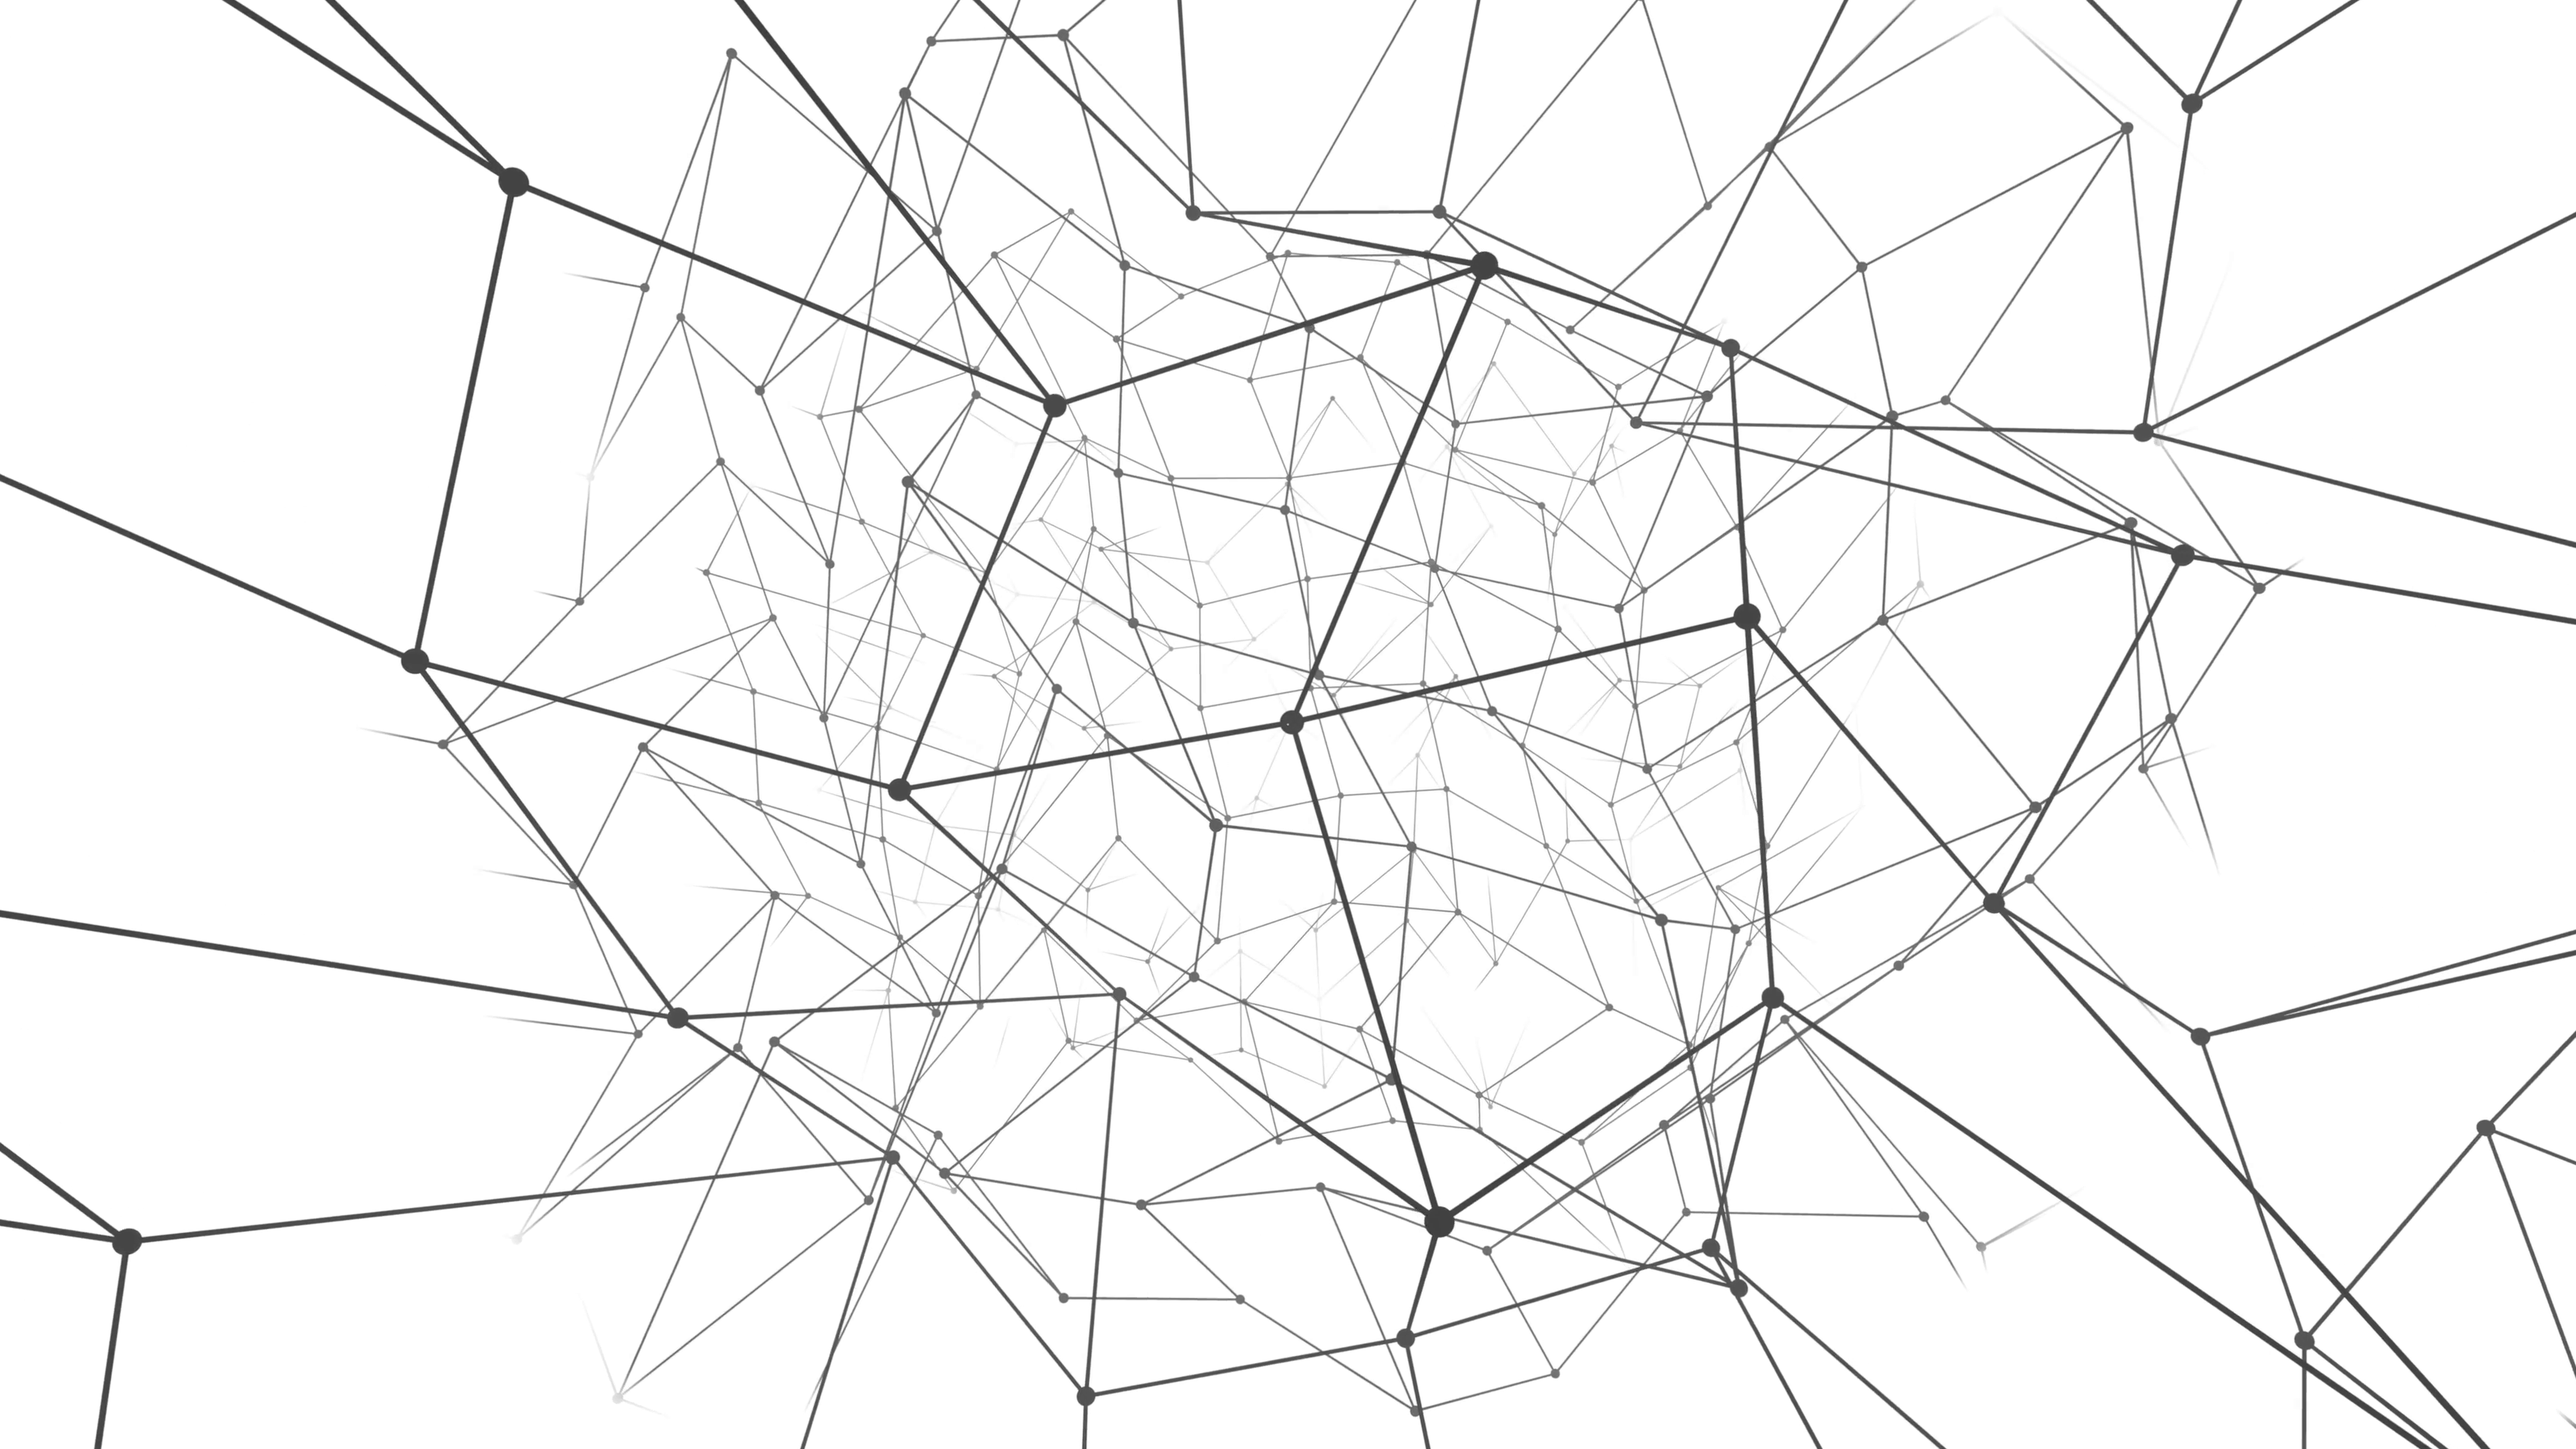
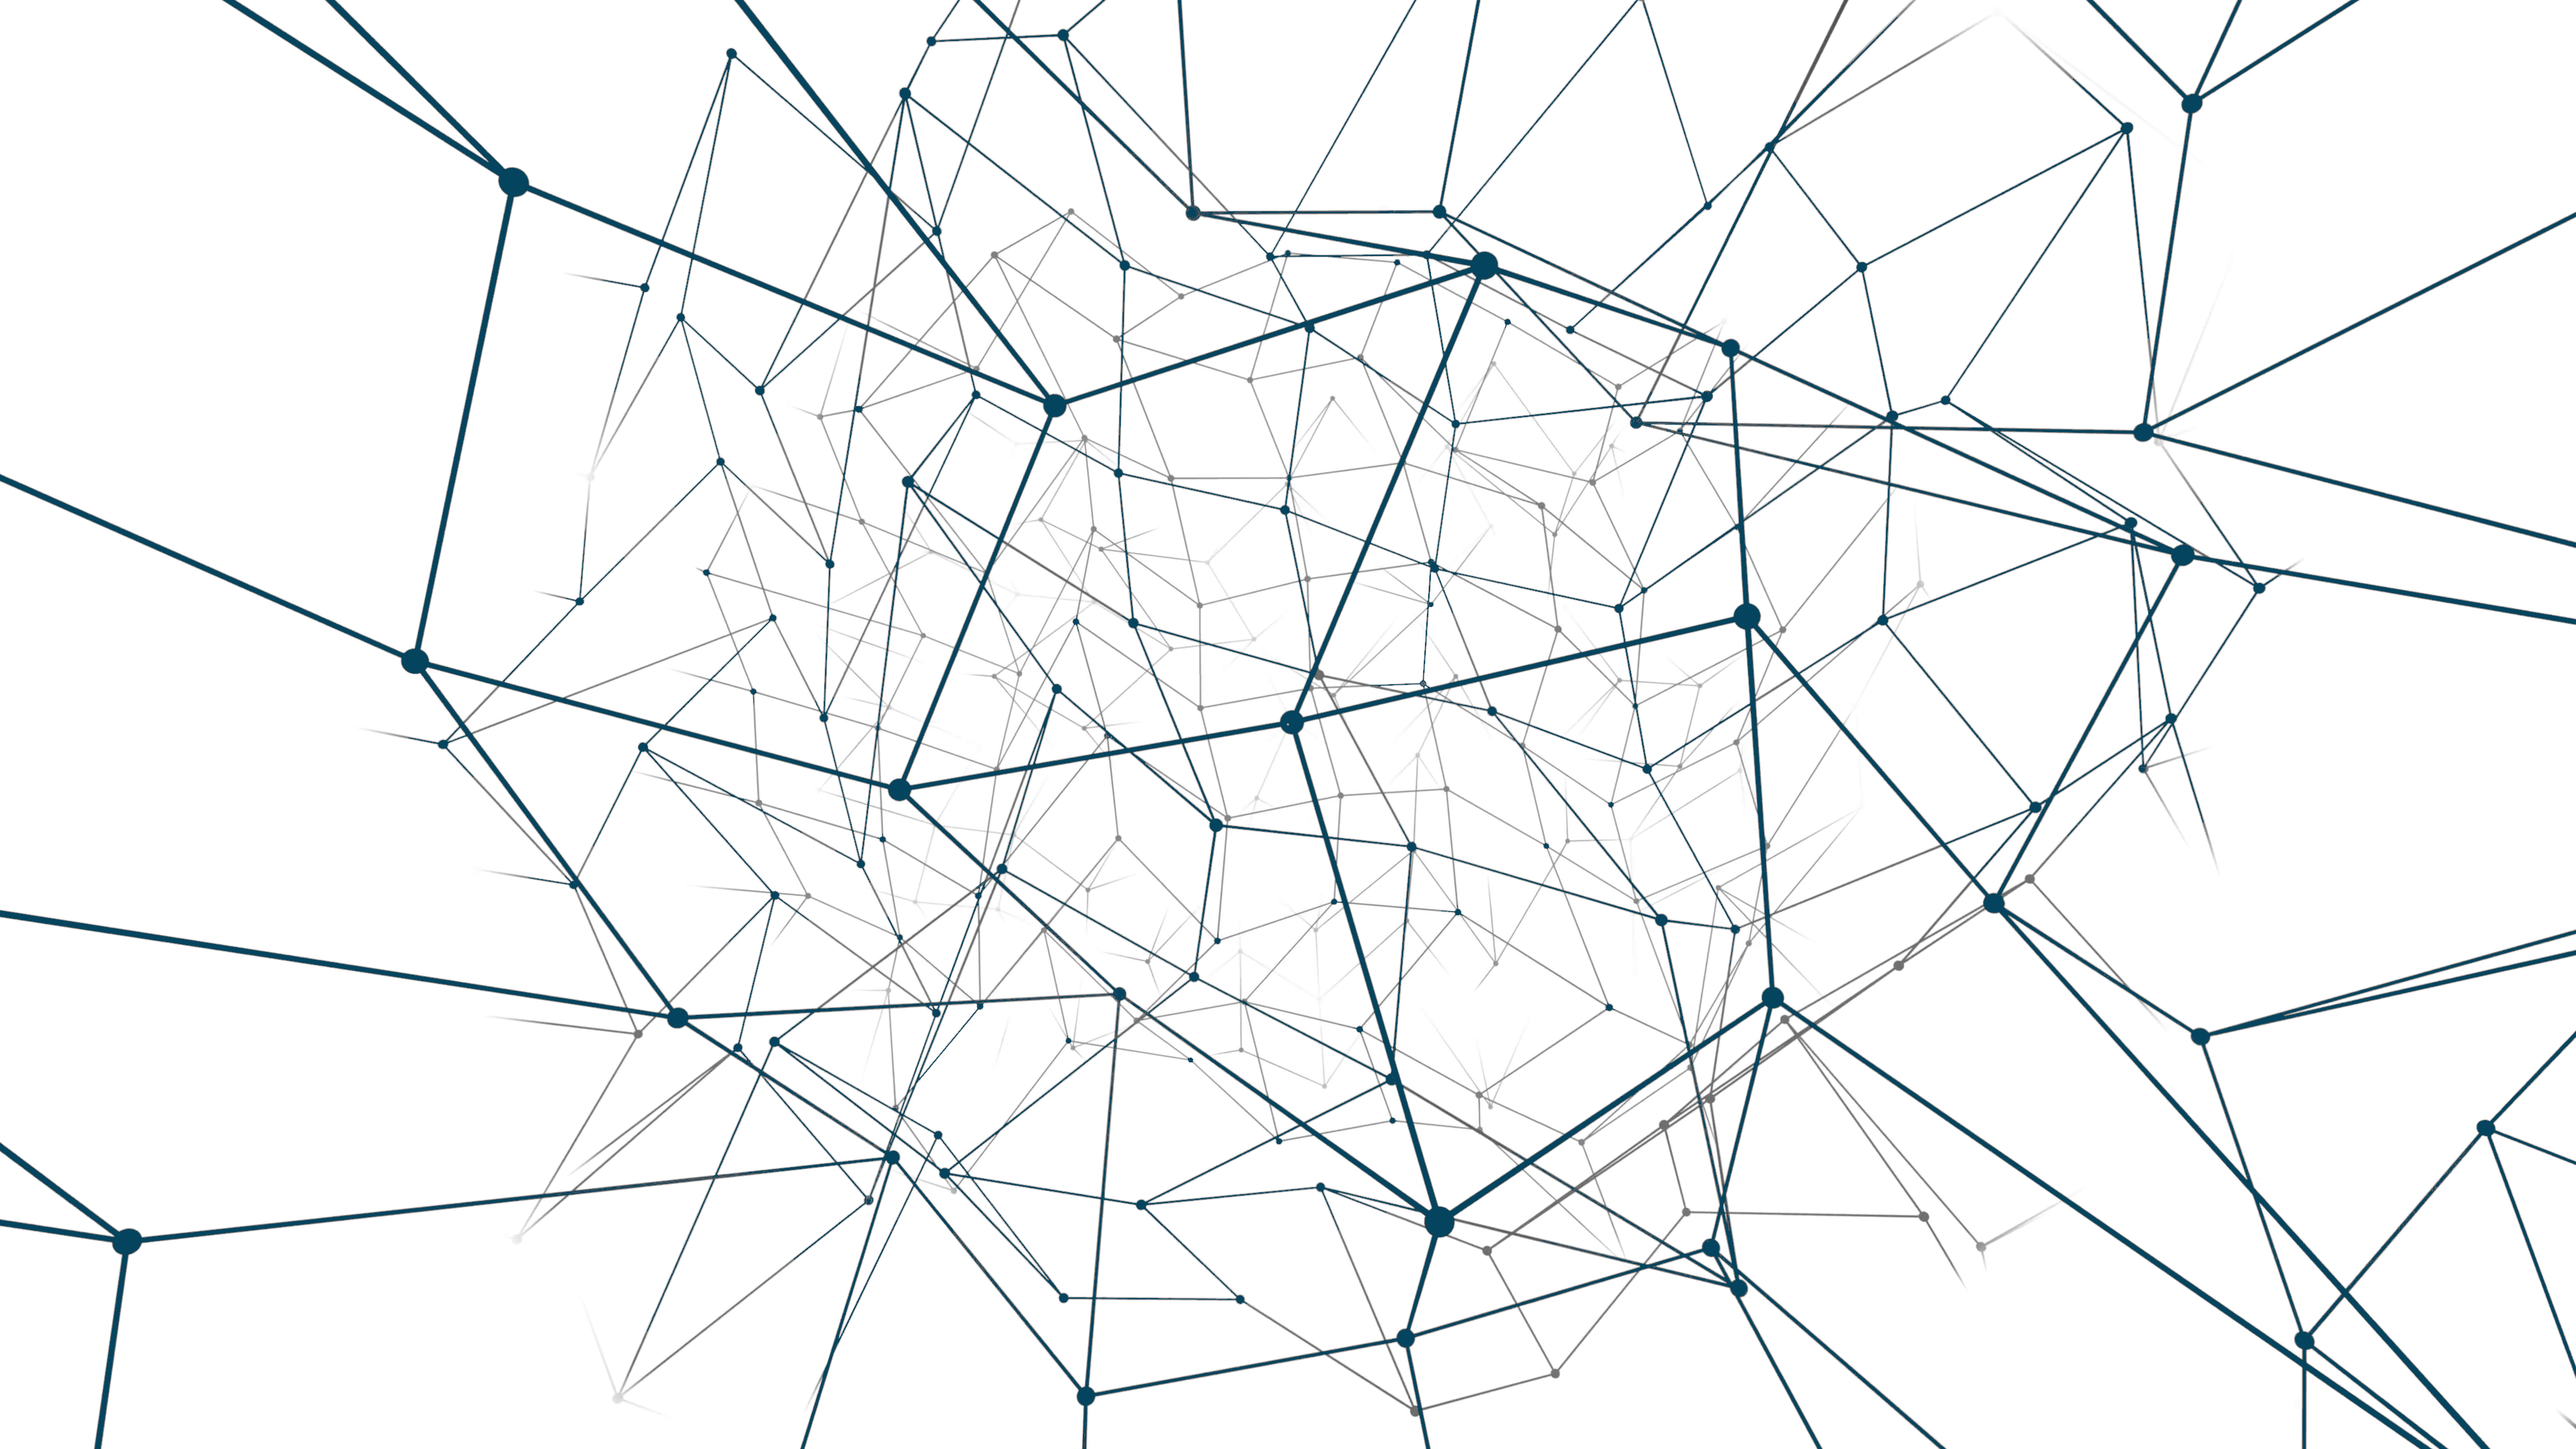
Darken background image in the login page.

diff --git a/src/app/components/login-page.ts b/src/app/components/login-page.ts
@@ -1,30 +1,32 @@
 import { Component } from './component';
 
 const baseTemplate = `
-  <div class="content">
-    <h1 class="title">Chat App</h1>
-    
-    <div class="field-wrapper">
-      <span class="label">Nome</span>
-      <input id="username" class="input-username" type="text" />
+  <div class="dark">
+    <div class="content">
+      <h1 class="title">Chat App</h1>
+      
+      <div class="field-wrapper">
+        <span class="label">Nome</span>
+        <input id="username" class="input-username" type="text" />
+      </div>
+      
+      <div class="field-wrapper">
+        <span class="label">Room</span>
+        <select id="rooms" class="select-rooms">
+          <option value="" disabled selected>Select the room</option>
+          <option value="lobby">Lobby</option>
+          <option value="2">Room 2</option>
+          <option value="3">Room 3</option>
+        </select>
+      </div>
+      
+      <button id="btnContinue" class="btn-continue" type="button">Continue</button>
+      
+      <a class="link-github" href="https://github.com/andreferrazz" target="_blank">
+        <img src="/src/assets/images/GitHub-Mark-32px.png" />
+        <span>Check the source code on Github</span>
+      <a/>
     </div>
-    
-    <div class="field-wrapper">
-      <span class="label">Room</span>
-      <select id="rooms" class="select-rooms">
-        <option value="" disabled selected>Select the room</option>
-        <option value="lobby">Lobby</option>
-        <option value="2">Room 2</option>
-        <option value="3">Room 3</option>
-      </select>
-    </div>
-    
-    <button id="btnContinue" class="btn-continue" type="button">Continue</button>
-    
-    <a class="link-github" href="https://github.com/andreferrazz" target="_blank">
-      <img src="/src/assets/images/GitHub-Mark-32px.png" />
-      <span>Check the source code on Github</span>
-    <a/>
   </div>
 `
 

diff --git a/src/style.css b/src/style.css
@@ -126,15 +126,20 @@
   width: 100%;
   height: 100vh;
   min-height: 400px;
-  display: flex;
-  align-items: center;
-  justify-content: center;
   background-color: white;
   background-image: url(/src/assets/images/bg-connection.png);
   background-repeat: no-repeat;
   background-size: cover;
   background-position: center;
+}
 
+.dark {
+  width: 100%;
+  height: 100%;
+  display: flex;
+  align-items: center;
+  justify-content: center;
+  background-color: #00000022;
 }
 
 .login-page .content {
